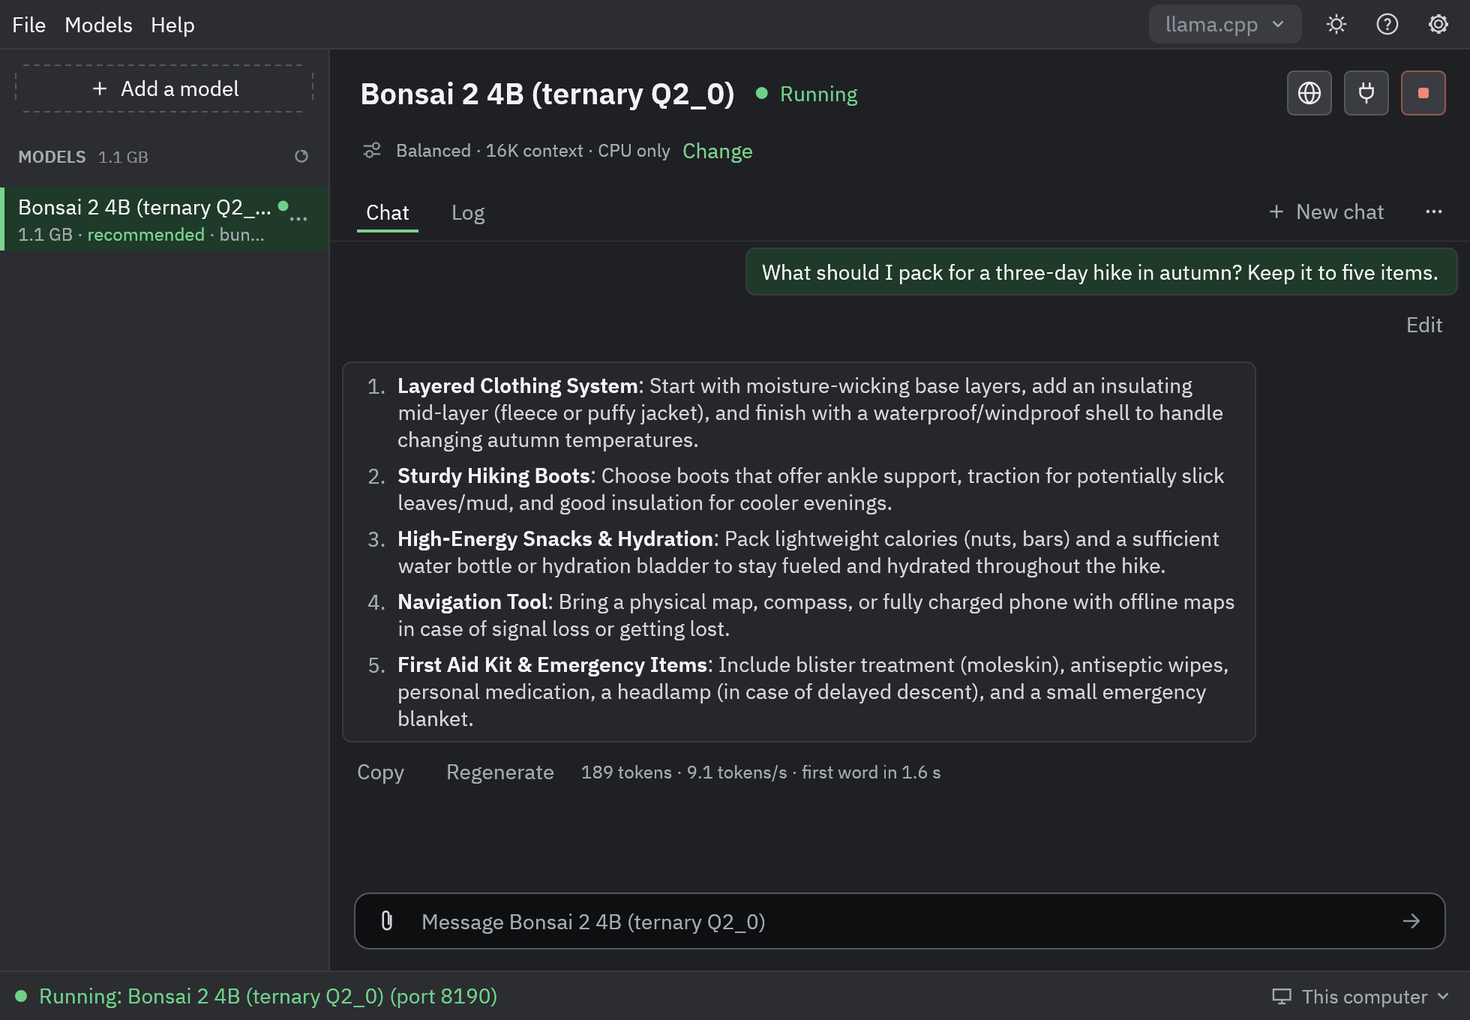
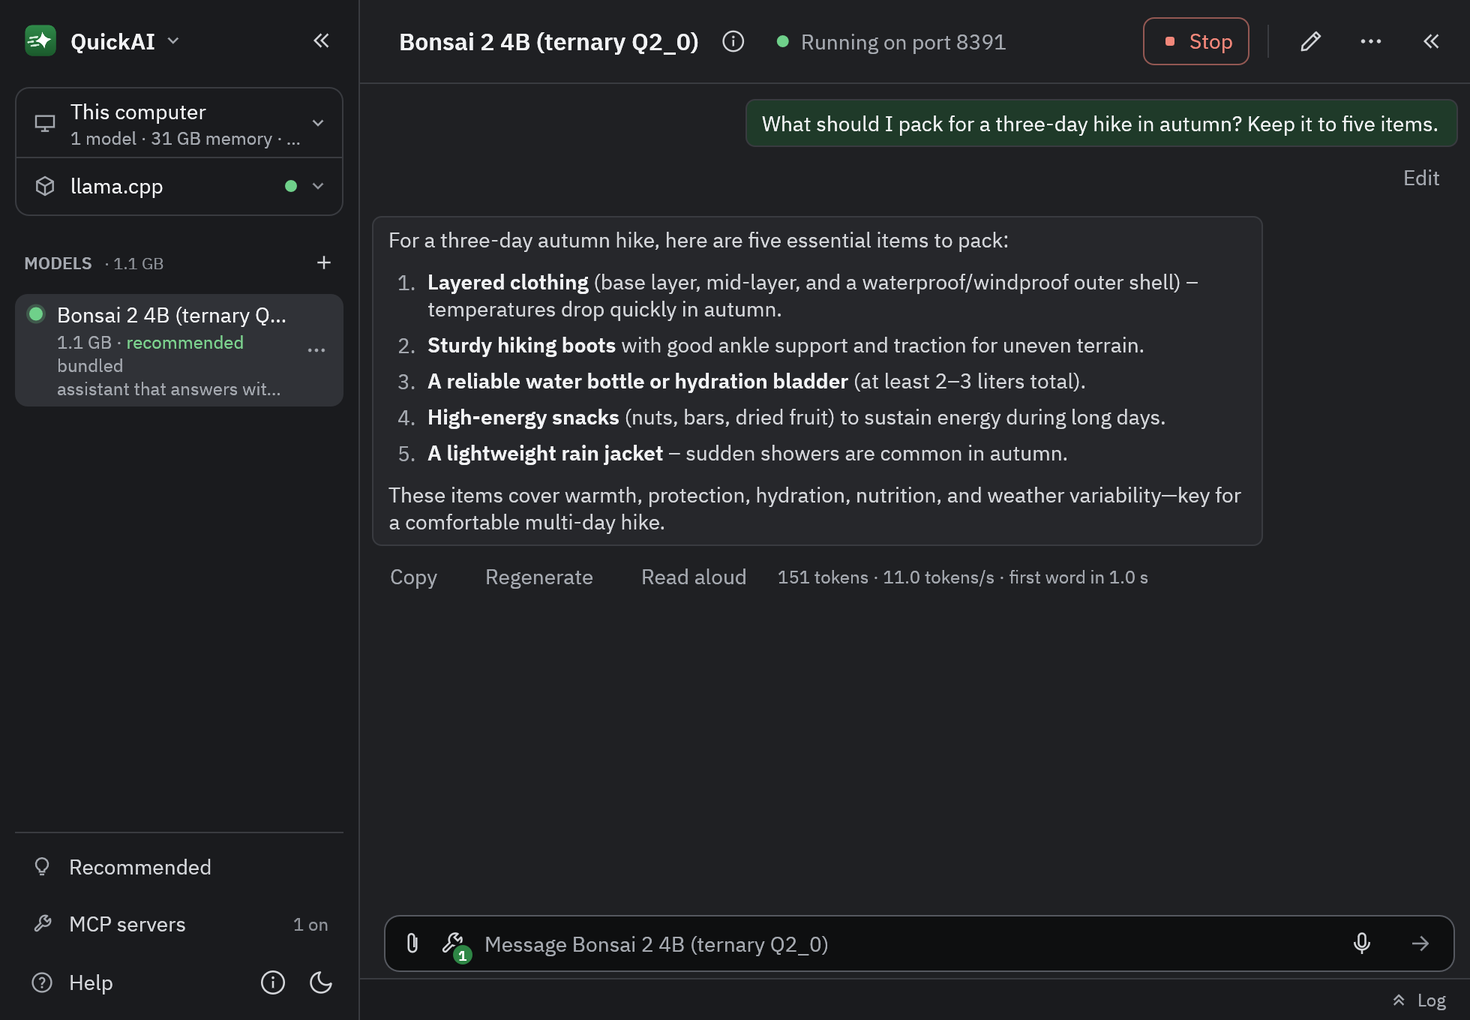
README: the picture of the current window (UI v3, voice on), and its description

diff --git a/README.md b/README.md
@@ -24,7 +24,7 @@
 <p align="center">
   <picture>
     <source media="(prefers-color-scheme: dark)" srcset="assets/readme/quickai-dark.png">
-    <img src="assets/readme/quickai-light.png" width="760" alt="The QuickAI window running Bonsai 2 4B, the model included with QuickAI: the model list in the sidebar on the left, the model name and its Start button in the toolbar, a reply in the chat, and the model's run settings in the panel on the right.">
+    <img src="assets/readme/quickai-light.png" width="760" alt="The QuickAI window running Bonsai 2 4B, the model included with QuickAI: the model in the sidebar on the left, its name and Stop in the toolbar, a reply to a question about packing for a hike with Copy, Regenerate and Read aloud under it, and the chat box with the tools and the microphone.">
   </picture>
 </p>
 
